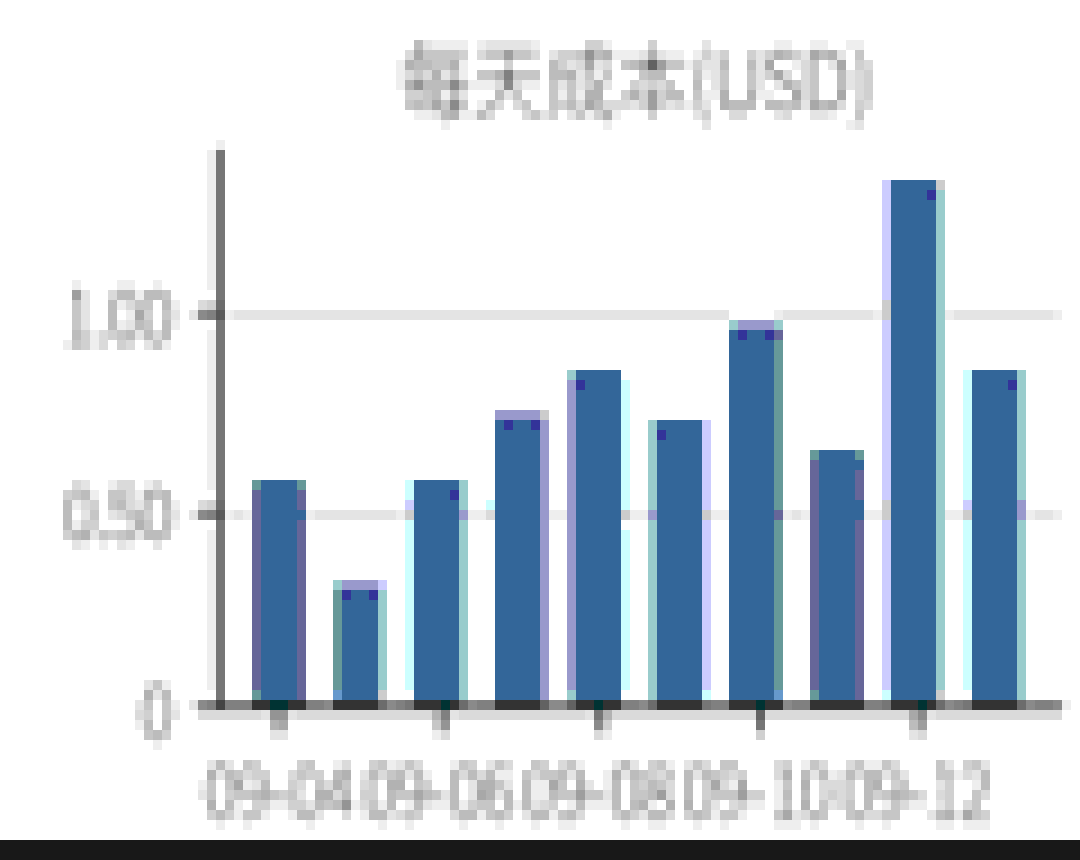
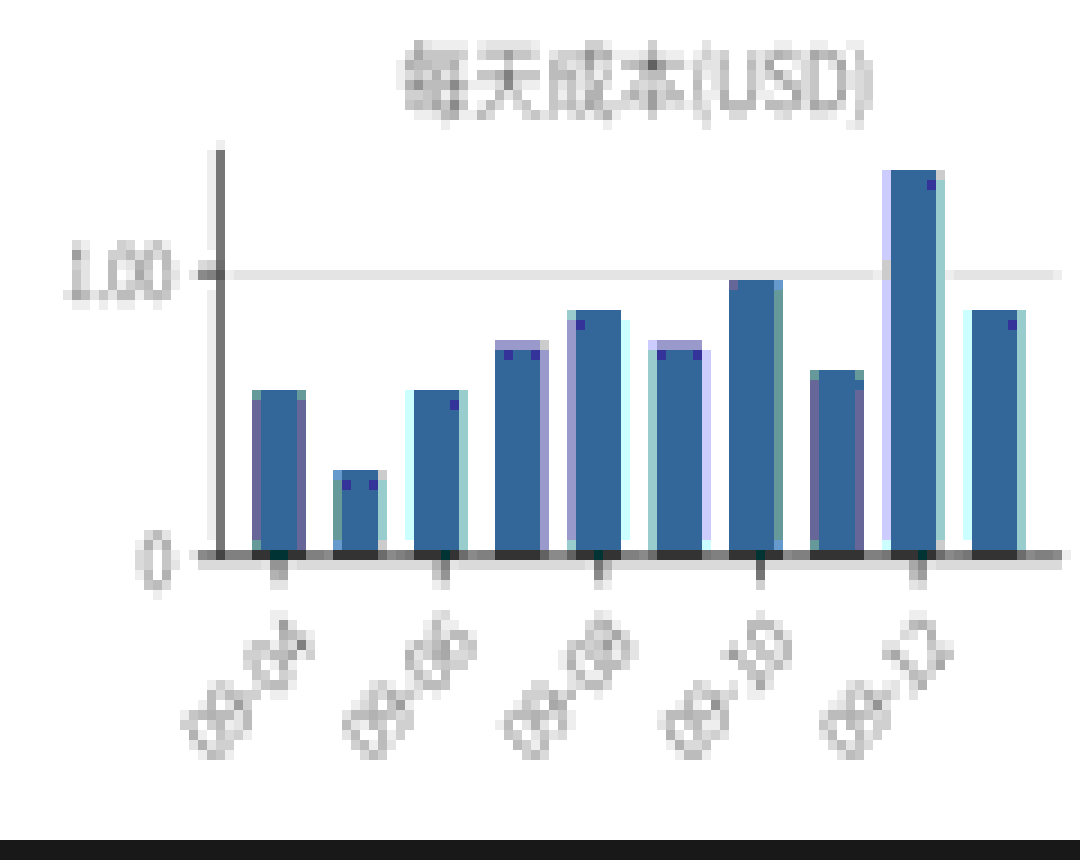
文档同步：计量与成本口径、与 ccusage 的对账结论（T11）
- README 双语新增 `Metering` / 计量口径 与 `Reconciliation with ccusage` / 与 ccusage 的对账：
  累计值增量计量（含继承首帧、重复帧、压缩回落、跨日补扫）；成本三层合并、cache_read 回退、
  priority≡fast 的官方逐模型 Fast 价（API 等价口径声明）、别名映射 assumed、无公开价不臆造
- 已知边界里"与 ccusage 可能有出入"改为与对账一致的表述（token 逐 (天,模型) 差 0；
  成本差 +$51.40 是 ccusage 漏算 astra 的 Fast 档加成）
- CHANGELOG：本轮条目从已归档的 [0.1.0] 移到 [Unreleased]（0.1.0 归档于 19:57，
  本轮改动 21:28 之后落地，符合文件自身的版本约定），并补 Changed/Fixed/Documentation
- 示例图：5 张逐字节不变（其中 table-bymodel 相同 ⇒ 口径改动不影响合成夹具数字）；
  3 张更新——2 张因 ed79c2f 的图表裁切修复晚于出图，1 张因 doctor 新增缓存价缺口输出

diff --git a/README.md b/README.md
@@ -10,7 +10,7 @@ Local Codex usage statistics: parse the rollout session files under `~/.codex/se
 
 Charts default to **native images**: [matplotlib](https://matplotlib.org/) renders a PNG and [textual-image](https://github.com/lnqs/textual-image) puts it into the terminal. Terminals with a graphics protocol (kitty / Sixel) show the image itself, others show colored half-blocks; this needs the optional image dependencies and a terminal on stdout. Without the extra, when stdout is redirected to a pipe, or with `--ascii`, charts fall back to ASCII art ([plotext](https://github.com/piccolomo/plotext) + [termcharts](https://github.com/zvovcahovo/termcharts)).
 
-Everything runs locally and reads local files only. The single network action is the explicit `codex-usage --update-pricing` refresh; counting and charting never touch the network. Cost is computed from a pricing table resolved in this order: `CODEX_USAGE_PRICING_FILE` → local cache → built-in public price list (see [docs/pricing.md](docs/pricing.md)). A model with no price still has its tokens counted: its cost is $0 and the row is marked `*`.
+Everything runs locally and reads local files only. The single network action is the explicit `codex-usage --update-pricing` refresh; counting and charting never touch the network. Cost is computed from a pricing table merged from three layers — the built-in public price list, a local cache, and your own `CODEX_USAGE_PRICING_FILE` (highest priority) — see [Pricing](#pricing) and [docs/pricing.md](docs/pricing.md). A model with no price still has its tokens counted: its cost is $0 and the row is marked `*`.
 
 > The human-readable CLI output (table headers, chart titles, `--help`, `--doctor`) is currently Chinese; the screenshots below are real output. The machine-readable surface (`--json`, `--schema`, `--doctor --json`) has a language-neutral, documented contract.
 
@@ -22,7 +22,7 @@ Five differences we can point at; the full comparison, the weaknesses and every 
 - **Machine-readable self-description.** `--schema` is generated from the argparse definition, so the option list cannot drift from the implementation, and it exposes the `--json` field contract plus the chart-rendering environment; `--doctor` checks the data sources, the pricing layer, image support, the active terminal tier and the CJK font, with `--json` for agents.
 - **Subagents and family trees are first-class.** Every rollout file is parsed on its own and subagents are listed by nickname + role; `--family` puts a main thread and its subagents into one tree. Some aggregators derive Codex usage from higher-level state and can permanently defer sessions after a fork ([farion1231/cc-switch#5687](https://github.com/farion1231/cc-switch/issues/5687)).
 - **Offline by default.** Counting, aggregating and charting never touch the network, and the built-in price snapshot (2086 models) makes the cost column useful right after install; `--update-pricing` is the only network action and only runs when you ask for it.
-- **Accounting and tests you can verify.** Tokens accumulate from the per-turn `last_token_usage` delta, not from the `total_token_usage` counter that context compaction resets (in one measured session the final counter was only 1/9 of the real consumption). The delta idea is shared with other good tools — our difference is per-file parsing, subagent rows, invariant tests that pin the totals across four aggregations, and 129 tests that run on synthetic fixtures (no local Codex data needed) across a Python 3.10–3.13 CI matrix.
+- **Accounting you can verify.** Tokens come from the delta of the cumulative `total_token_usage` snapshots, attributed to the model in effect for that turn, with `last_token_usage` as the fallback when a counter resets or is missing — and no double-counting of repeated snapshots or inherited parent history ([Metering](#metering)). On a fixed window (`--since 20260911 --until 20260912`, recomputed 2026-09-13) our per-(day, model) ledger matches ccusage exactly — 1,830,205,933 tokens, difference 0 — and the [remaining cost difference](#reconciliation-with-ccusage) is a Fast-tier add-on ccusage does not apply. The whole suite runs on synthetic fixtures (no local Codex data needed) across a Python 3.10–3.13 CI matrix.
 
 And the honest part: [ccusage](https://github.com/ccusage/ccusage) has 18,520 stars (fetched 2026-09-13), covers 18 CLI tools and installs with `npx`, while codex-usage is a single-source, single-author project. We aim to be the deepest Codex-only view, not another 40-tool dashboard.
 
@@ -82,6 +82,18 @@ Missing parts are filled with 0 for `--since` (`20260912-16` → 16:00:00) and w
 | Cost/call | cost ÷ calls; `-` when there are no calls |
 | Cost | converted with the pricing table; a model with no price counts as $0 and is marked `*` |
 
+### Metering
+
+Token counts are derived from the rollout's cumulative `token_count.total_token_usage` snapshots, not from the per-turn `last_token_usage` values:
+
+- A turn adds the **delta of the cumulative counters** (current snapshot − previous snapshot), attributed to the model that the turn's `turn_context` reported.
+- A **repeated snapshot** (no advance) adds nothing, so replayed events are not counted twice.
+- The **first snapshot of a file** may be an inherited parent-thread history; only its own `last_token_usage` is counted, so an inherited prefix whose `last` is 0 contributes nothing.
+- If the cumulative counters **drop** (context compaction resets them) or a snapshot carries no cumulative value, that turn falls back to `last_token_usage`.
+- File admission is not limited to the date directories inside the window: files whose path date is older but whose **mtime is at or after `--since`** are scanned as well, so a long session that keeps writing past midnight is not dropped; turns are then filtered by their event timestamps.
+
+`--json` exposes this for auditing: a per-session `metering` object (`resets`, `fallbacks`, `delta_sum`) and a per-model `tiers` breakdown.
+
 ### Semantics
 
 | Kind | Options | Notes |
@@ -116,7 +128,24 @@ codex-usage --update-pricing --pricing-source litellm
 
 Model names found in sessions are matched exactly, then normalized (case, provider prefix, date and `-latest` suffixes, common aliases), then by longest prefix — so `gpt-5.1-codex-2025-11-13` and `openrouter/openai/GPT-5.1-Codex` both resolve to `gpt-5.1-codex`.
 
+Three details shape the resulting numbers:
+
+- **Cache reads without a price.** About a third of the effective table (33.6%) has no `cacheReadCostPerMillion`. For those models, cached reads are charged at the model's **input price** instead of $0 — a deliberate upper bound (real cache-read prices are around 10% of input), so the estimate can over-count but not silently under-count.
+- **Service tiers.** Codex records which tier a turn ran under. `priority` and `fast` are the same tier (OpenAI renamed priority processing to Fast) and are priced with the official per-model Fast rates — 2.0× standard for Astra and the 5.6 Sol/Terra/Luna family, 2.5× for `gpt-5.5` — while `flex` is 0.5×. Prices are **API-equivalent USD**, not the ChatGPT subscription credit multipliers (a different rate card). Models without a public Fast price (for example `gpt-5-codex`) stay at the standard price and report `tier_priced: false`.
+- **Labels with no public price.** `codex-auto-review` has no price fields in any public source, so it goes through an auditable alias table (`src/codex_usage/data/model_aliases.json`) that maps it to `gpt-5.5` and flags the mapping `assumed: true` (following ccusage's dated fallback table and a three-way token reconciliation). `gpt-reserve` has no public price from any source, so it stays `$0.00*` instead of being guessed. The alias table and the tier price table can be replaced with `CODEX_USAGE_ALIASES_FILE` and `CODEX_USAGE_TIER_PRICING_FILE`.
+
 Caveats: the built-in table is a snapshot (it carries an `updated` timestamp); context-tier prices (`>200k`), cache-write pricing and per-reseller markups are not modelled; a model that no public channel prices stays `$0.00*`. Point `CODEX_USAGE_PRICING_FILE` at your own table if you need exact billing. Sources, field mapping and licenses are documented in [docs/pricing.md](docs/pricing.md).
+
+### Reconciliation with ccusage
+
+Recomputed on 2026-09-13 for the fixed window `--since 20260911 --until 20260912`:
+
+| | codex-usage | ccusage | Difference |
+|---|---|---|---|
+| Tokens, per (day, model) | 1,830,205,933 | 1,830,205,933 | **0** |
+| Cost | $1,116.04 | $1,064.64 | **+$51.40** |
+
+The token ledgers match entry by entry once cross-day files are included (without the backfill described in [Metering](#metering) we were missing 62,780,912 tokens and $66.75 in this window). The cost difference is entirely `gpt-6-astra`'s Fast-tier add-on, which ccusage does not apply to its 292 priority turns; our standard-price total for the same window is $1,061.45, and `ccusage − our standard price = +$3.19` is exactly the Fast add-on for `gpt-5.6-luna` and `codex-auto-review`, which ccusage does apply. 09-11, which has no priority turns, is identical to the cent ($210.75). Method, per-file recomputation and the full ledger: [docs/metering-verification.md](docs/metering-verification.md).
 
 ## Self-describing and self-checking (for humans and agents)
 
@@ -130,7 +159,7 @@ codex-usage --schema | jq '.json_output.fields'   # meaning and unit of every --
 codex-usage --json --since 20260910 | jq -c '{id:.session_id,total:.total_tokens,calls}' | head -3
 ```
 
-`codex-usage --doctor` (add `--json` for the structured form) inspects the environment: whether the session and archive directories exist and how many rollout files they hold, which pricing source is in effect and how many models it provides, whether image rendering is available and which tier is active, and whether a CJK font is installed. Actionable hints are listed separately, and `ok` says whether everything is fine.
+`codex-usage --doctor` (add `--json` for the structured form) inspects the environment: whether the session and archive directories exist and how many rollout files they hold, which pricing source is in effect, how many models it provides and what share of them lacks a cache-read price, whether image rendering is available and which tier is active, and whether a CJK font is installed. Actionable hints are listed separately, and `ok` says whether everything is fine.
 
 ![codex-usage --doctor](docs/shots/doctor.png)
 
@@ -140,7 +169,7 @@ codex-usage 0.1.0  |  Python 3.14.7  |  Linux-...
 
 会话数据   /tmp/codex-usage-doc-fixture/sessions  存在，32 个 rollout 文件（最近 2026-09-13 23:36）
 归档数据   /tmp/codex-usage-doc-fixture/archived_sessions  存在，0 个 rollout 文件
-定价       内置表+自定义文件 /tmp/codex-usage-doc-fixture/model-pricing.json，2086 个模型（数据 2026-09-13）
+定价       内置表+自定义文件 /tmp/codex-usage-doc-fixture/model-pricing.json，2086 个模型（数据 2026-09-13），其中 33.6% 缺缓存读价（按 input 价回退）
 图表渲染   彩色半块（matplotlib 3.11.2 + textual-image 0.13.2，光栅 119×84，档位 auto（探测为 彩色半块））
 中文字体   Noto Sans CJK SC
 
@@ -208,7 +237,7 @@ uv venv && uv pip install -e ".[image]" pytest   # with native image deps; the i
 .venv/bin/python -m pytest tests/ -q             # unit + CLI end-to-end (synthetic fixtures, no local data)
 ```
 
-Data paths can be overridden with environment variables: `CODEX_USAGE_SESSIONS_DIR`, `CODEX_USAGE_ARCHIVE_DIR`, `CODEX_USAGE_PRICING_FILE`, `CODEX_USAGE_CACHE_DIR`.
+Data paths can be overridden with environment variables: `CODEX_USAGE_SESSIONS_DIR`, `CODEX_USAGE_ARCHIVE_DIR`, `CODEX_USAGE_PRICING_FILE`, `CODEX_USAGE_CACHE_DIR`, `CODEX_USAGE_TIER_PRICING_FILE`, `CODEX_USAGE_ALIASES_FILE`.
 
 The screenshots in `docs/shots/` are generated from synthetic fixtures (public model names and public prices) by [`tools/make_doc_shots.py`](tools/make_doc_shots.py); no real session data is involved:
 
@@ -222,7 +251,7 @@ See [CONTRIBUTING.md](CONTRIBUTING.md) for how to contribute and [CHANGELOG.md](
 
 - Only rollout files produced by the official OpenAI subscription (OAuth) are parsed; usage that goes through third-party gateways never reaches the local session files.
 - Time filtering uses each event's timestamp (UTC → local time): a session spanning the window only contributes the turns inside it, and day grouping uses the session's activity start.
-- Daily totals may differ from tools such as ccusage: codex-usage groups by the session's activity start and measures per-turn deltas; the global totals agree.
+- Daily totals can still differ from other tools' day bucketing (codex-usage groups by the session's activity start and filters turns by their event timestamps), but on a fixed window the per-(day, model) token ledger matches ccusage exactly — see [Reconciliation with ccusage](#reconciliation-with-ccusage); the cost difference there comes from Fast-tier handling, not from tokens.
 - Native image charts depend on textual-image probing the terminal's graphics support: tmux needs passthrough enabled, and a few terminals don't report their cell pixel size, in which case a default raster is used and the displayed size may differ slightly. Use `--ascii` if you don't want native images.
 - The human-readable output is Chinese-only; the JSON contracts are language-neutral.
 

diff --git a/CHANGELOG.md b/CHANGELOG.md
@@ -18,6 +18,54 @@ and this project adheres to [Semantic Versioning](https://semver.org/spec/v2.0.0
 
 ## [Unreleased]
 
+### Changed
+
+- `--json` gained `metering` (`resets` / `fallbacks` / `delta_sum`) and `tiers` (per model ×
+  service tier, from `thread_settings_applied`) so metering decisions are auditable; `--schema`
+  documents both. `--doctor` additionally reports how much of the pricing table lacks a
+  cache-read price.
+- Cost estimation is now service-tier aware: `priority` and `fast` are one tier (the official
+  rename of priority processing) and are priced with the official per-model Fast rates — 2.0×
+  standard for Astra and the 5.6 Sol/Terra/Luna family, 2.5× for `gpt-5.5`, while `flex` is
+  0.5×. The rates come from `data/tier_pricing.json` (override with
+  `CODEX_USAGE_TIER_PRICING_FILE`) and are declared as API-equivalent USD, not the ChatGPT
+  subscription credit multipliers. Models without a public Fast price stay at the standard
+  price and report `tier_priced: false`.
+- Labels that no public source prices now go through an auditable alias table
+  (`data/model_aliases.json`, override with `CODEX_USAGE_ALIASES_FILE`): `codex-auto-review`
+  is priced as `gpt-5.5` and flagged `assumed: true`, while `gpt-reserve` is deliberately left
+  unpriced (`$0.00*`) instead of being guessed.
+
+### Fixed
+
+- Token metering now follows the cumulative `total_token_usage` delta instead of summing the
+  per-turn `last_token_usage`: 53% of session files repeat a cumulative snapshot, and some
+  subagent files start with an inherited parent-history snapshot (the largest at 14,051,760
+  tokens with a zero delta), so the old path over-counted and double-counted replayed
+  prefixes. The first snapshot is counted at its own delta, a mid-file jump larger than that
+  turn's delta is capped by it, and a cumulative drop (context compaction) or a missing
+  cumulative field falls back to `last_token_usage`.
+- Cross-day long sessions: file admission now also includes rollout files whose path date is
+  outside the window but whose mtime is at or after `--since`. Previously those turns were
+  dropped — 62,780,912 tokens and $66.75 in the fixed verification window
+  (`--since 20260911 --until 20260912`). With the fix the per-(day, model) token ledger
+  matches ccusage exactly (both 1,830,205,933 tokens, difference 0).
+- Pagination merge: a merged session now accumulates `tiers` alongside `models`, so the tier
+  totals agree with the model totals again (the previous mismatch was 4.81M gross input
+  tokens).
+- `sessions/` and `archived_sessions/` copies of the same session are now de-duplicated
+  (`sessions/` wins) instead of being summed into one session.
+- Pricing: a missing or explicitly zero `cacheReadCostPerMillion` now falls back to that
+  model's input price instead of charging cached reads at $0 (33.6% of the effective table has
+  no cache-read price).
+
+### Documentation
+
+- Both READMEs document the cumulative-delta metering rules (including the cross-day file
+  admission), the cache-read / service-tier / alias pricing behaviour, and the fixed-window
+  reconciliation with ccusage (identical tokens, +$51.40 cost because ccusage does not apply
+  the `gpt-6-astra` Fast rate).
+
 ## [0.1.0] - 2026-09-13
 
 ### Added
@@ -69,25 +117,9 @@ and this project adheres to [Semantic Versioning](https://semver.org/spec/v2.0.0
 - Chart raster size now follows the terminal's reported pixel size (avoids upscaling the
   PNG and blurring thin lines), crowded x-axis labels are thinned out, and axis ticks use
   compact forms such as `120K` / `3.4B`.
-- `--json` gained `metering` (`resets` / `fallbacks` / `delta_sum`) and `tiers` (per model ×
-  service tier, from `thread_settings_applied`) so metering decisions are auditable; `--schema`
-  documents both. `--doctor` additionally reports how much of the pricing table lacks a
-  cache-read price.
 
 ### Fixed
 
-- Token metering now follows the cumulative `total_token_usage` delta instead of summing the
-  per-turn `last_token_usage`: 53% of session files repeat a cumulative snapshot, and 11
-  subagent files start with an inherited parent-history snapshot (the largest at 14,051,760
-  tokens with a zero delta), so the old path over-counted by about 2% and double-counted
-  replayed prefixes. The first snapshot is counted at its own delta, a mid-file jump larger
-  than that turn's delta is capped by it, and a cumulative drop (context compaction) or a
-  missing cumulative field falls back to `last_token_usage`.
-- `sessions/` and `archived_sessions/` copies of the same session are now de-duplicated
-  (`sessions/` wins) instead of being summed into one session.
-- Pricing: a missing or explicitly zero `cacheReadCostPerMillion` now falls back to that
-  model's input price instead of charging cached reads at $0 (33.6% of the bundled table has
-  no cache-read price).
 - Test fixtures no longer hard-code UTC timestamps: they follow the host time zone, so the
   suite passes on runners in any zone (it failed on every CI Python version before).
 - Real-image charts: rotated x-axis labels no longer push into the plot area, and legends
